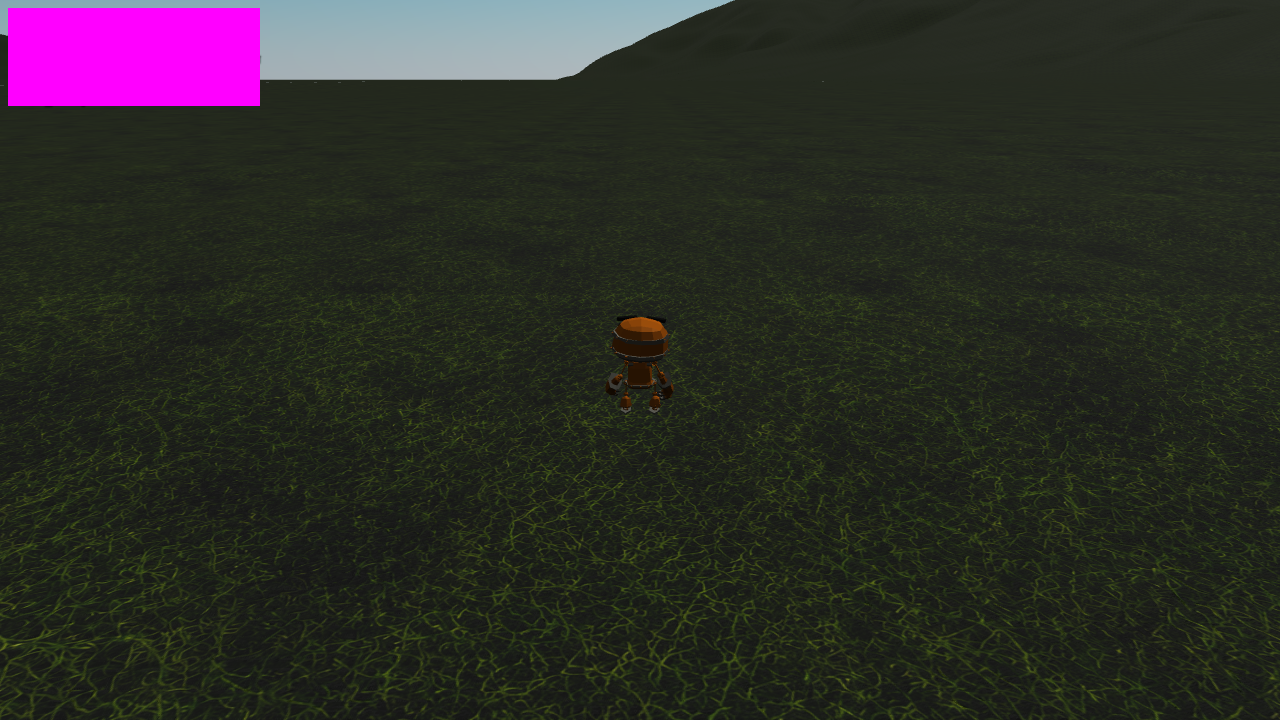
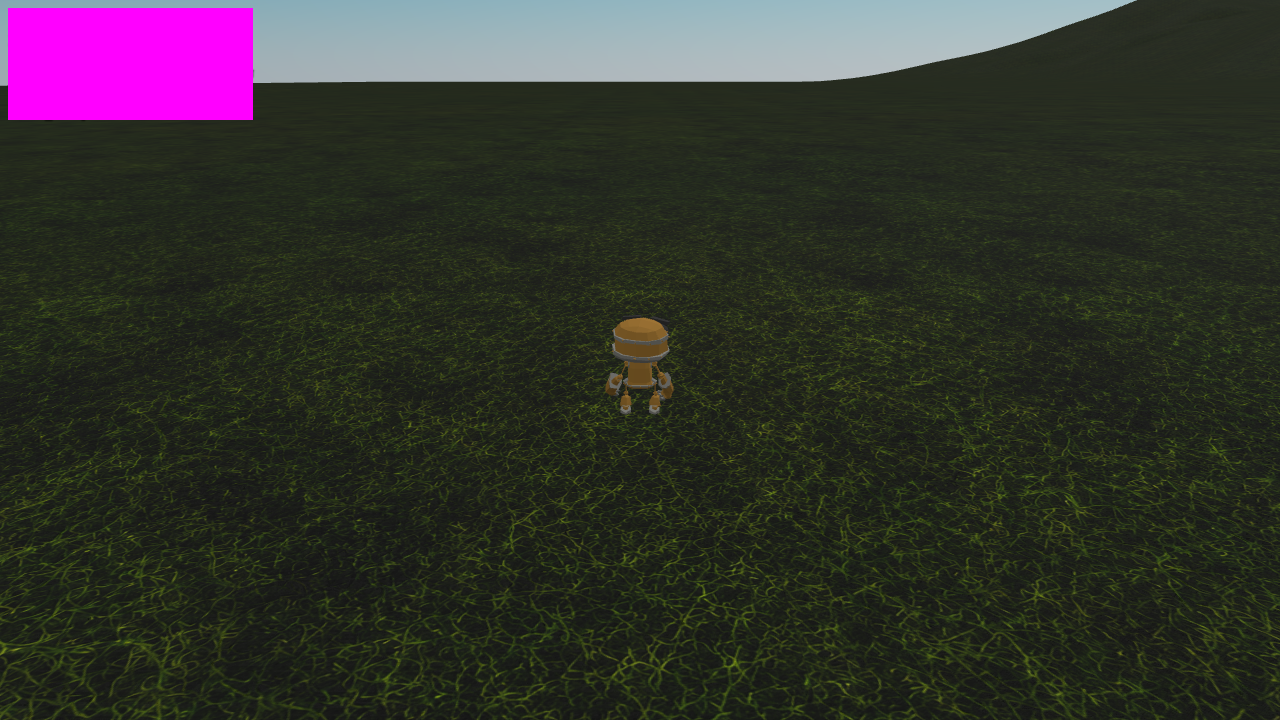
Fix T-junction cracks at world-tile seams
Adjacent tiles met with thin gaps the sky showed through as white lines at
grazing angles. Two fixes:

1. Pipeline: stitch fine-tile edges to the coarse grid. A fine (2 m) tile's
   bicubic edge bowed off the coarse (25 m) tile's straight edge segments,
   so fine↔coarse and fine↔fine borders didn't coincide. _process_fine_tile
   now snaps each border vertex onto the linear interpolation of the coarse
   edge it shares; since neighbours sample the same DEM column/row, their
   snapped edges come out identical. Coarse↔coarse already matched. The 49
   served fine meshes are regenerated.

2. Client: hang a vertical skirt (SKIRT_DEPTH below each edge) around every
   tile's perimeter, hidden under the surface, as a regression safeguard that
   fills any residual hairline gap with grass instead of sky.

The seam test now passes and drops test.fail(); it waits for the heavy fine
tiles to finish streaming before measuring, and the spawn-view baseline is
refreshed for the slightly shifted distant silhouette.

diff --git a/client/src/terrain.ts b/client/src/terrain.ts
@@ -1,4 +1,4 @@
-import { Scene, SceneLoader, DracoCompression, PBRMaterial, MaterialPluginBase, Color3, Texture, Quaternion, VertexBuffer, VertexData, type UniformBuffer, type AbstractMesh, type TransformNode } from "@babylonjs/core";
+import { Scene, SceneLoader, DracoCompression, PBRMaterial, MaterialPluginBase, Color3, Texture, Mesh, Quaternion, VertexBuffer, VertexData, type UniformBuffer, type AbstractMesh, type TransformNode } from "@babylonjs/core";
 import "@babylonjs/loaders/glTF";
 
 const TILE_SIZE         = 4000;   // metres per tile edge
@@ -9,6 +9,7 @@ const FINE_UNLOAD_RADIUS = 9000;  // drop fine tiles beyond this distance
 const MAX_CONCURRENT    = 4;      // parallel in-flight GLB requests per tier
 const UPDATE_INTERVAL   = 1000;   // ms between streaming checks
 const GRASS_REPEAT_M    = 20;     // grass texture repeats every N metres
+const SKIRT_DEPTH       = 50;     // metres each tile's edge skirt hangs below the surface
 
 export function configureDraco(): void {
   DracoCompression.Configuration = {
@@ -408,7 +409,69 @@ export class TileStreamer {
     }
     this._lastDebug = `${filename} geo=${geoCount}`;
 
-    return geoCount > 0 && heights ? { root, heights, vpe } : null;
+    if (geoCount > 0 && heights) {
+      this.buildSkirt(root, heights, vpe, mat);
+      return { root, heights, vpe };
+    }
+    return null;
+  }
+
+  // Hang a vertical "skirt" of geometry around the tile's perimeter, dropping
+  // SKIRT_DEPTH below each edge vertex. The pipeline already stitches tile edges
+  // so they meet exactly, but float error or a future regression could still
+  // open a hair-thin T-junction crack; the skirt sits hidden below the surface
+  // and fills any such gap with grass instead of letting the sky show through.
+  private buildSkirt(
+    root: TransformNode, heights: Float32Array, vpe: number, mat: PBRMaterial,
+  ): void {
+    const spacing = TILE_SIZE / (vpe - 1);
+
+    // Walk the perimeter as one closed ring of (col,row) grid cells.
+    const ring: Array<[number, number]> = [];
+    for (let c = 0; c < vpe; c++)        ring.push([c, 0]);          // north  W→E
+    for (let r = 1; r < vpe; r++)        ring.push([vpe - 1, r]);    // east   N→S
+    for (let c = vpe - 2; c >= 0; c--)   ring.push([c, vpe - 1]);    // south  E→W
+    for (let r = vpe - 2; r >= 1; r--)   ring.push([0, r]);          // west   S→N
+
+    const n = ring.length;
+    const positions = new Float32Array(n * 2 * 3);
+    const normals   = new Float32Array(n * 2 * 3);
+    const uvs       = new Float32Array(n * 2 * 2);
+    for (let i = 0; i < n; i++) {
+      const [c, r] = ring[i];
+      const x = c * spacing;
+      const z = r * spacing;
+      const h = heights[r * vpe + c];
+      const p = i * 6;
+      positions[p]     = x; positions[p + 1] = h;              positions[p + 2] = z; // top
+      positions[p + 3] = x; positions[p + 4] = h - SKIRT_DEPTH; positions[p + 5] = z; // bottom
+      // Shade like flat ground so the sliver blends rather than reading as a wall.
+      normals[p + 1] = 1; normals[p + 4] = 1;
+      const u = i * 4;
+      uvs[u] = uvs[u + 2] = x / TILE_SIZE;
+      uvs[u + 1] = uvs[u + 3] = z / TILE_SIZE;
+    }
+
+    // One quad per ring segment, emitted both windings so it shows from either
+    // side without needing a separate culling-off material.
+    const indices: number[] = [];
+    for (let i = 0; i < n; i++) {
+      const j = (i + 1) % n;
+      const ti = i * 2, bi = i * 2 + 1, tj = j * 2, bj = j * 2 + 1;
+      indices.push(ti, tj, bj, ti, bj, bi);   // front
+      indices.push(ti, bj, tj, ti, bi, bj);   // back
+    }
+
+    const skirt = new Mesh("skirt", this.scene);
+    const vd = new VertexData();
+    vd.positions = positions;
+    vd.indices   = indices;
+    vd.normals   = normals;
+    vd.uvs       = uvs;
+    vd.applyToMesh(skirt);
+    skirt.material   = mat;
+    skirt.isPickable = false;
+    skirt.parent     = root; // inherits the tile's transform + enabled/disposed state
   }
 
   // Force-load the tile covering (sceneX, sceneZ) and wait for it to finish.

diff --git a/e2e/seam.spec.ts b/e2e/seam.spec.ts
@@ -1,9 +1,19 @@
 import { test, expect } from "@playwright/test";
-import { gotoApp, waitForTilesSettled } from "./fixtures";
+import { gotoApp } from "./fixtures";
 
-// Demonstrates a known bug: adjacent terrain tiles don't share their edge
-// geometry, so thin T-junction cracks open along the seams between world tiles.
-// At a grazing view the background shows straight through them as white lines.
+// Read the tile-streaming counts off the debug HUD.
+async function readTiles(page: import("@playwright/test").Page) {
+  return page.evaluate(() => {
+    const t = document.getElementById("debug-hud")?.textContent ?? "";
+    const m = t.match(/(\d+) coarse\s+(\d+) fine\s+(\d+) loading/);
+    return m ? { coarse: +m[1], fine: +m[2], loading: +m[3] } : null;
+  });
+}
+
+// Guards against T-junction cracks at the seams between world tiles. Tiles used
+// to crack here because the fine (2 m) mesh bowed off the coarse (25 m) edge,
+// opening gaps the sky showed through as white lines. The fix stitches fine
+// edges to the coarse chord in the pipeline and adds a perimeter skirt as backup.
 // Reproduces at a seam near scene-space (253429, 0.8, 309882), framed by the
 // camera at (253505, 23.5, 309956) — the same transforms used to spot it by eye.
 //
@@ -11,13 +21,10 @@ import { gotoApp, waitForTilesSettled } from "./fixtures";
 // colour, then counts magenta pixels that appear *below* the terrain silhouette
 // in each column — i.e. background visible through a hole, not the open sky
 // above the horizon. A seamless terrain leaks zero such pixels.
-//
-// Marked test.fail() because the gaps are still present: this keeps the suite
-// green while documenting the defect, and will turn into a hard failure (an
-// unexpected pass) once tiles are stitched/skirted — at which point drop the
-// test.fail() so it guards against regressions.
 test("no background shows through world-tile seams", async ({ page }) => {
-  test.fail();
+  // The fine tiles in view are heavy (≈4 M verts each) and stream in slowly; an
+  // unfinished load would show as background and falsely fail. Allow time to load.
+  test.setTimeout(180_000);
   await gotoApp(page);
 
   // Drop the player onto the seam so terrain streams in around it.
@@ -27,7 +34,19 @@ test("no background shows through world-tile seams", async ({ page }) => {
     // eslint-disable-next-line @typescript-eslint/no-explicit-any
     s.meshes.find((m: any) => m.name === "player").position.set(253429, 0.8, 309882);
   });
-  await waitForTilesSettled(page);
+
+  // Wait until streaming genuinely drains — not just the HUD line momentarily
+  // holding steady mid-decode, which waitForTilesSettled() can mistake for done.
+  // Require several consecutive low-load reads so a lull between batches doesn't
+  // look like completion.
+  let settled = 0;
+  for (let i = 0; i < 120 && settled < 6; i++) {
+    const s = await readTiles(page);
+    settled = s && s.loading <= 1 && s.fine >= 6 ? settled + 1 : 0;
+    await page.waitForTimeout(1000);
+  }
+  expect(settled, "terrain did not finish streaming in").toBeGreaterThanOrEqual(6);
+  await page.waitForTimeout(1000);
 
   const r = await page.evaluate(() => {
     // eslint-disable-next-line @typescript-eslint/no-explicit-any

diff --git a/tools/gis-pipeline/pipeline/mesh.py b/tools/gis-pipeline/pipeline/mesh.py
@@ -226,6 +226,11 @@ def mesh(config, compress: bool = True) -> Path:
             # Read a 163×163 window — 1px beyond each edge so central differences
             # for border vertices use real neighbours from adjacent tiles.
             # boundless=True pads with 0.0 (sea level) for world-edge tiles.
+            #
+            # Coarse tiles need no edge stitching: a tile's east column is DEM
+            # col (tx+1)*tp — exactly the west column of its neighbour — so shared
+            # edges already sample identical heights. Only the fine mesh, which
+            # upsamples between these, must be snapped back (see _process_fine_tile).
             ext_window = Window(col_off - 1, row_off - 1, vpe + 2, vpe + 2)
             elev_ext = dem.read(
                 1, window=ext_window, boundless=True, fill_value=0.0
@@ -282,7 +287,30 @@ def _process_fine_tile(args: tuple) -> None:
             resampling=_Res.cubic,
         ).astype("float32")
 
+        # The coarse grid this tile must stitch to: the exact DEM samples mesh()
+        # turns into the coarse tile's vertices (the central coarse_vpe window).
+        coarse = dem.read(
+            1,
+            window=_Win(col_off, row_off, coarse_vpe, coarse_vpe),
+            boundless=True,
+            fill_value=0.0,
+        ).astype("float32")
+
     elev = elev_ext[1:-1, 1:-1]   # strip the 1-px border → fine_vpe × fine_vpe
+
+    # Snap the four borders onto the coarse tile's edges to eliminate T-junction
+    # cracks. The coarse mesh draws each edge as straight segments between its
+    # 25 m vertices; the fine edge (bicubic) bows off those chords, opening gaps
+    # against coarse — and against other fine tiles, which bow differently.
+    # Linearly interpolating the coarse edge heights puts every fine border vertex
+    # back onto the coarse chord. Adjacent tiles share the DEM column/row sampled
+    # here, so their snapped edges come out identical (fine↔fine and fine↔coarse).
+    xc = np.linspace(0.0, 1.0, coarse_vpe)
+    xf = np.linspace(0.0, 1.0, fine_vpe)
+    elev[0, :]  = np.interp(xf, xc, coarse[0, :])    # north
+    elev[-1, :] = np.interp(xf, xc, coarse[-1, :])   # south
+    elev[:, 0]  = np.interp(xf, xc, coarse[:, 0])    # west
+    elev[:, -1] = np.interp(xf, xc, coarse[:, -1])   # east
 
     vertices, faces = _build_vertices_faces(elev, tile_size)
     normals          = _compute_normals(elev_ext, fine_resolution)